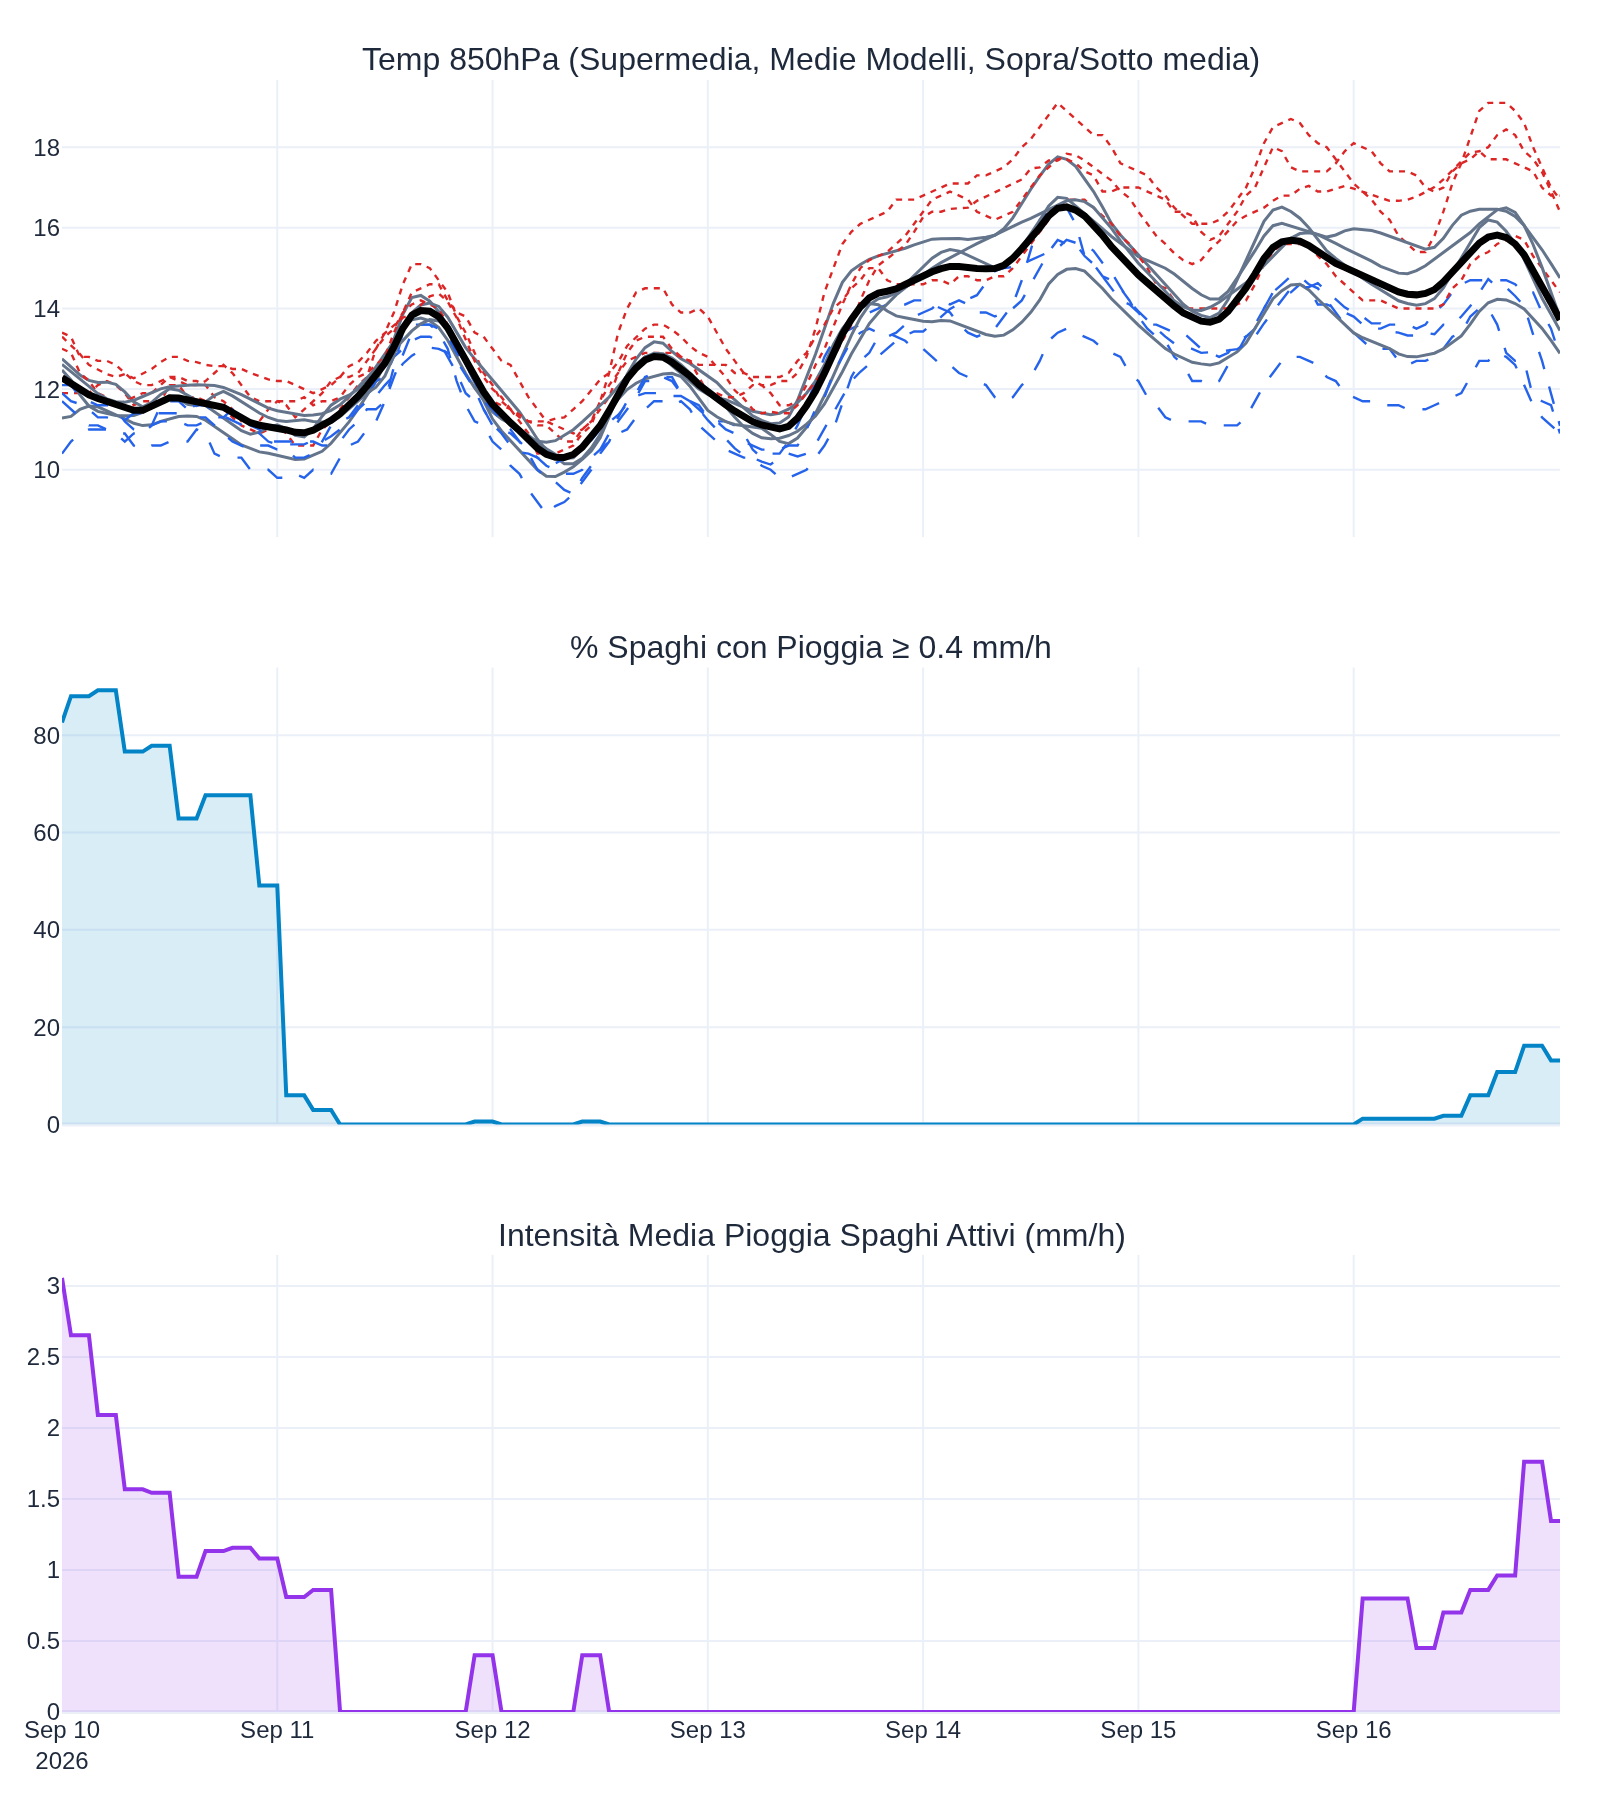
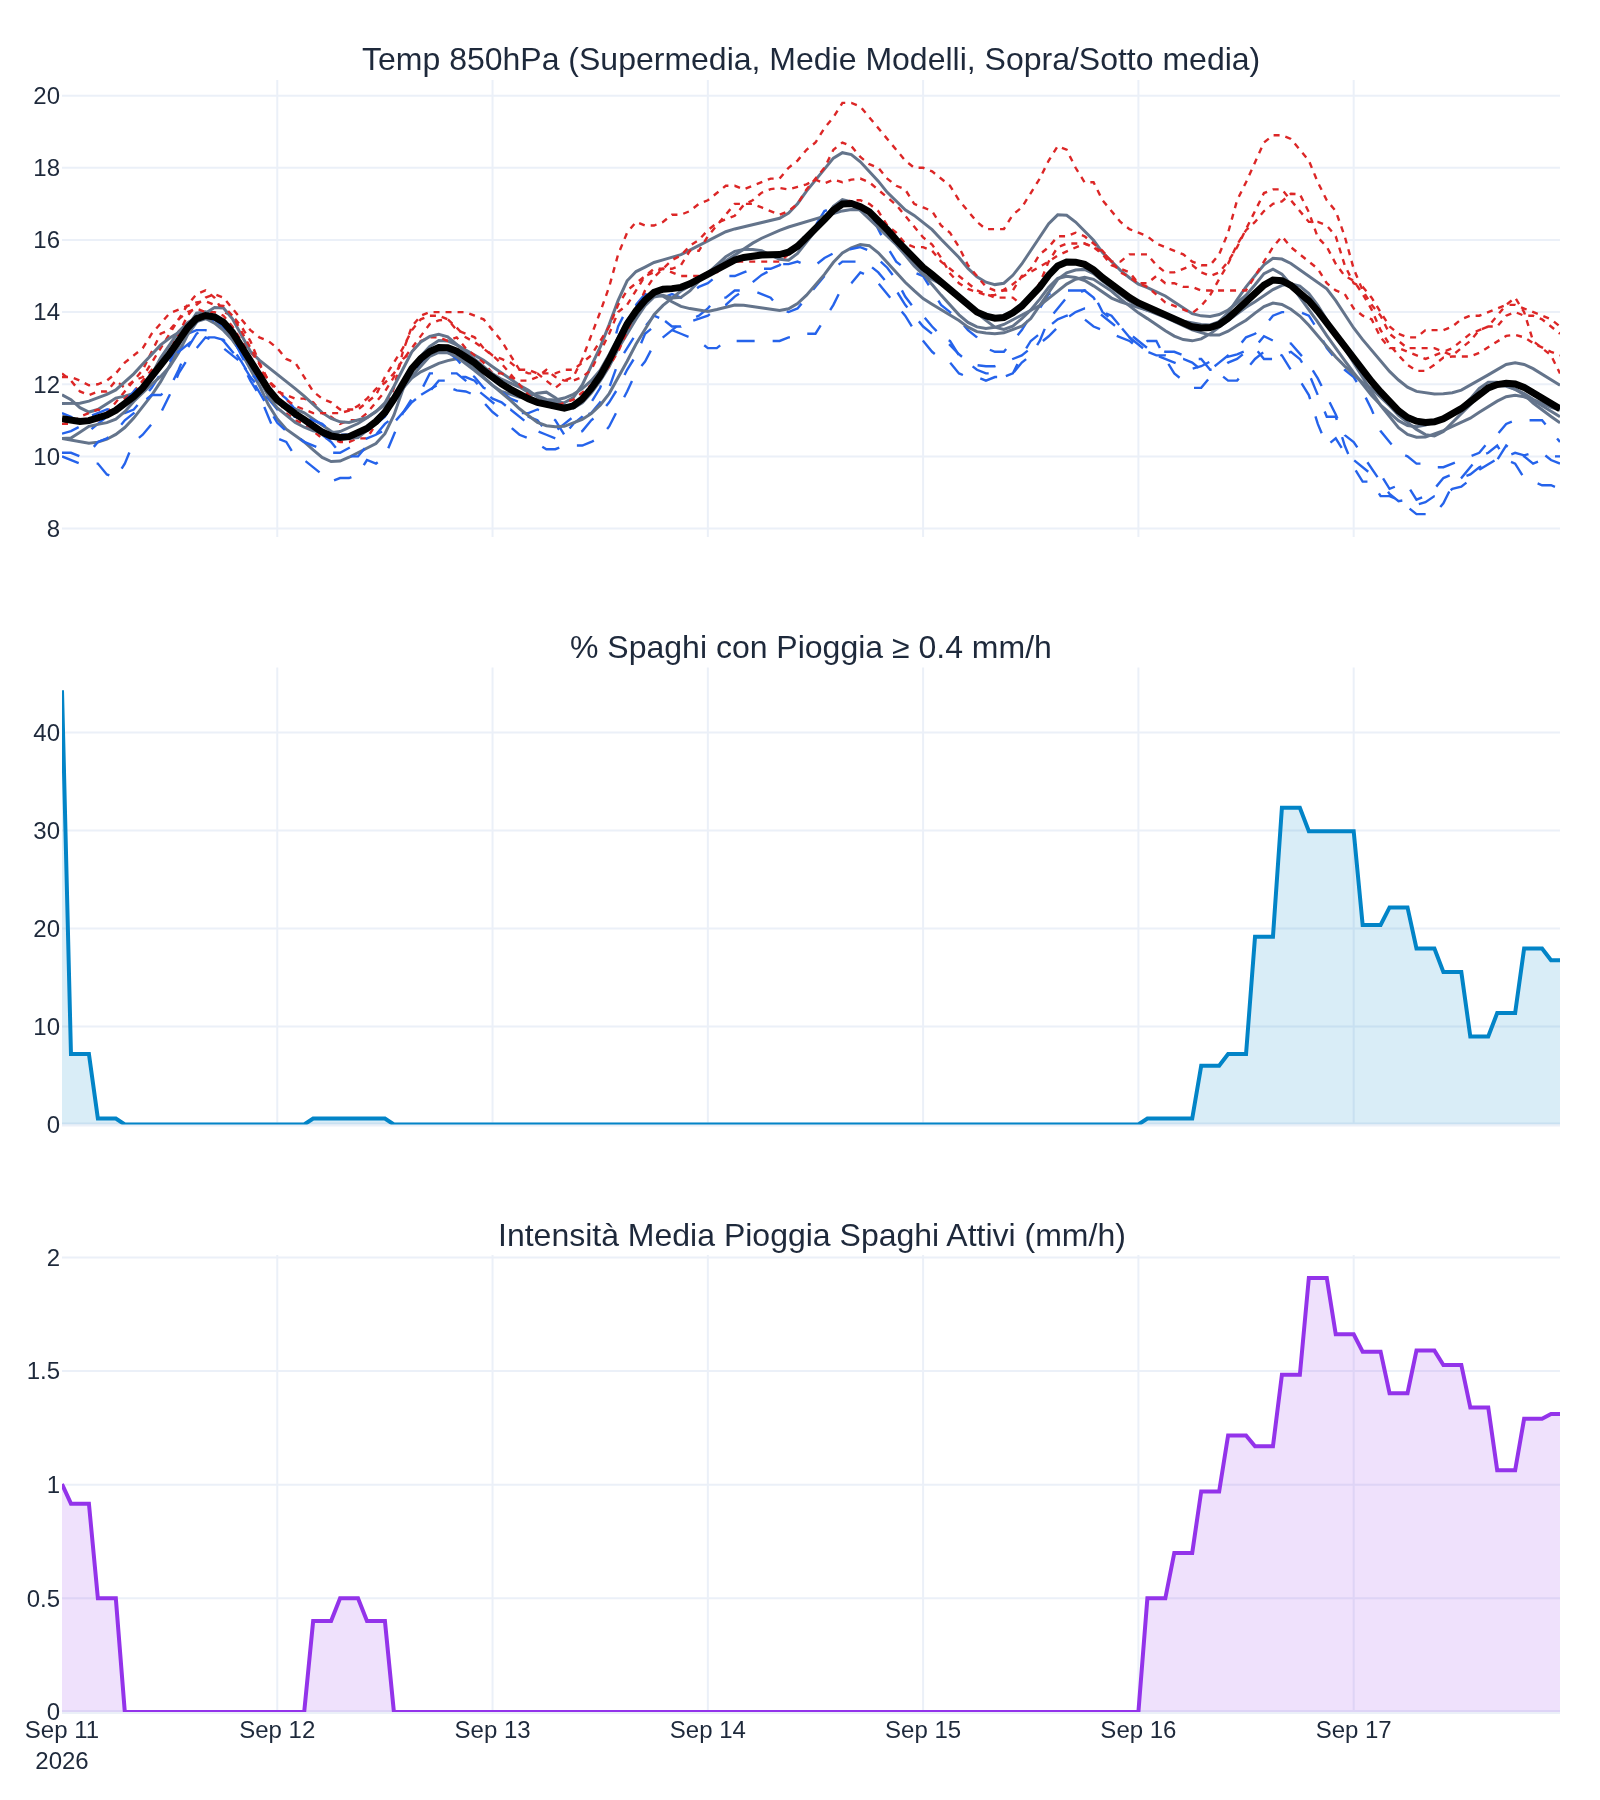
deploy: 1dc0a12943804f5ece3b06480eea32b7b3374c03

diff --git a/index.html b/index.html
@@ -71,37 +71,29 @@
     <div class="cards-container">
         <div class="card">
             <div class="card-title">Temperatura 24h</div>
-            <div class="card-main-val">19.5°C</div>
+            <div class="card-main-val">20.9°C</div>
             <div class="temp-sub">
-                <span class="temp-max">Max: 22.0°C</span>
-                <span class="temp-min">Min: 17.8°C</span>
+                <span class="temp-max">Max: 25.2°C</span>
+                <span class="temp-min">Min: 17.1°C</span>
             </div>
         </div>
         <div class="card">
             <div class="card-title">Rischio Pioggia 24h</div>
-            <div class="card-main-val" style="color: #0284c7;">100%</div>
+            <div class="card-main-val" style="color: #0284c7;">0%</div>
             <div class="card-subtext">Modelli LAM ≥ 0.4 mm/h</div>
         </div>
         <div class="card">
             <div class="card-title">Accumulo Totale 24h</div>
-            <div class="card-main-val" style="color: #9333ea;">13.0 <span style="font-size: 0.9rem;">mm</span></div>
-            <div class="card-subtext">Finestra: <b>00:00 - 21:00</b></div>
+            <div class="card-main-val" style="color: #9333ea;">0.0 <span style="font-size: 0.9rem;">mm</span></div>
+            <div class="card-subtext">Finestra: <b>Nessuna precipitazione</b></div>
         </div>
         <div class="card">
             <div class="card-title">Indice Turboloso</div>
-            <div class="card-main-val" style="color: #d97706;">7.4</div>
-            <div class="card-subtext">Stato: <b style="color: #d97706;">Livello 1 (Giallo)</b></div>
+            <div class="card-main-val" style="color: #16a34a;">0.0</div>
+            <div class="card-subtext">Stato: <b style="color: #16a34a;">Livello 0 (Verde)</b></div>
         </div>
     </div>
 
-    
-    <div class="alert-banner alert-lvl-1">
-        <div class="alert-title">Possibili temporali!</div>
-        <div class="alert-details">
-            <span><b>Pioggia max:</b> 13.3 mm/h (ore 00:00)</span>
-            <span><b>Raffica max:</b> 35.3 km/h (ore 01:00)</span>
-        </div>
-    </div>
     
 
     <div class="plots-container">
